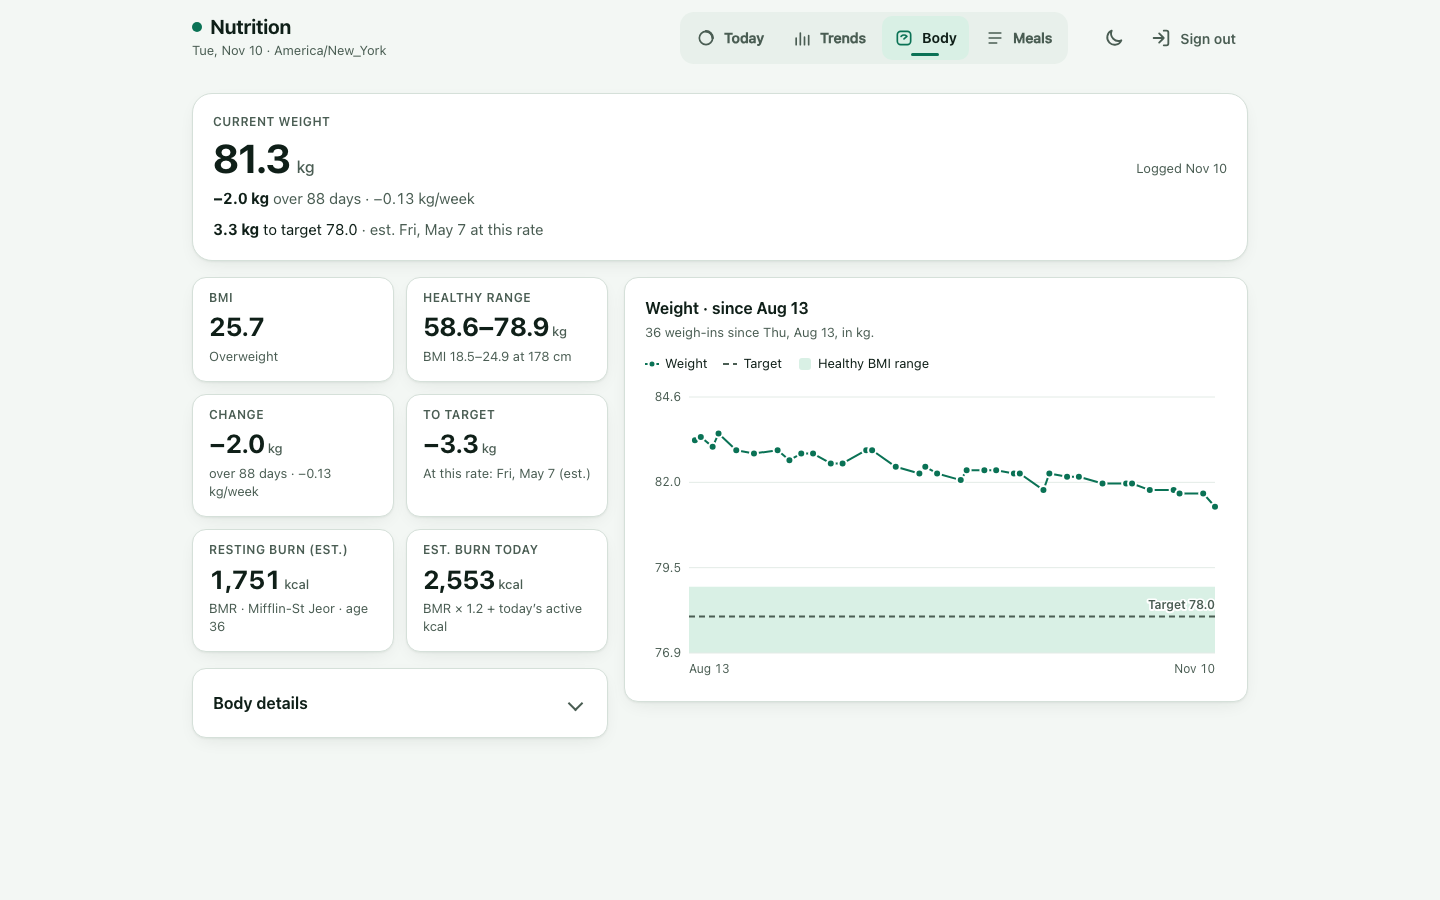
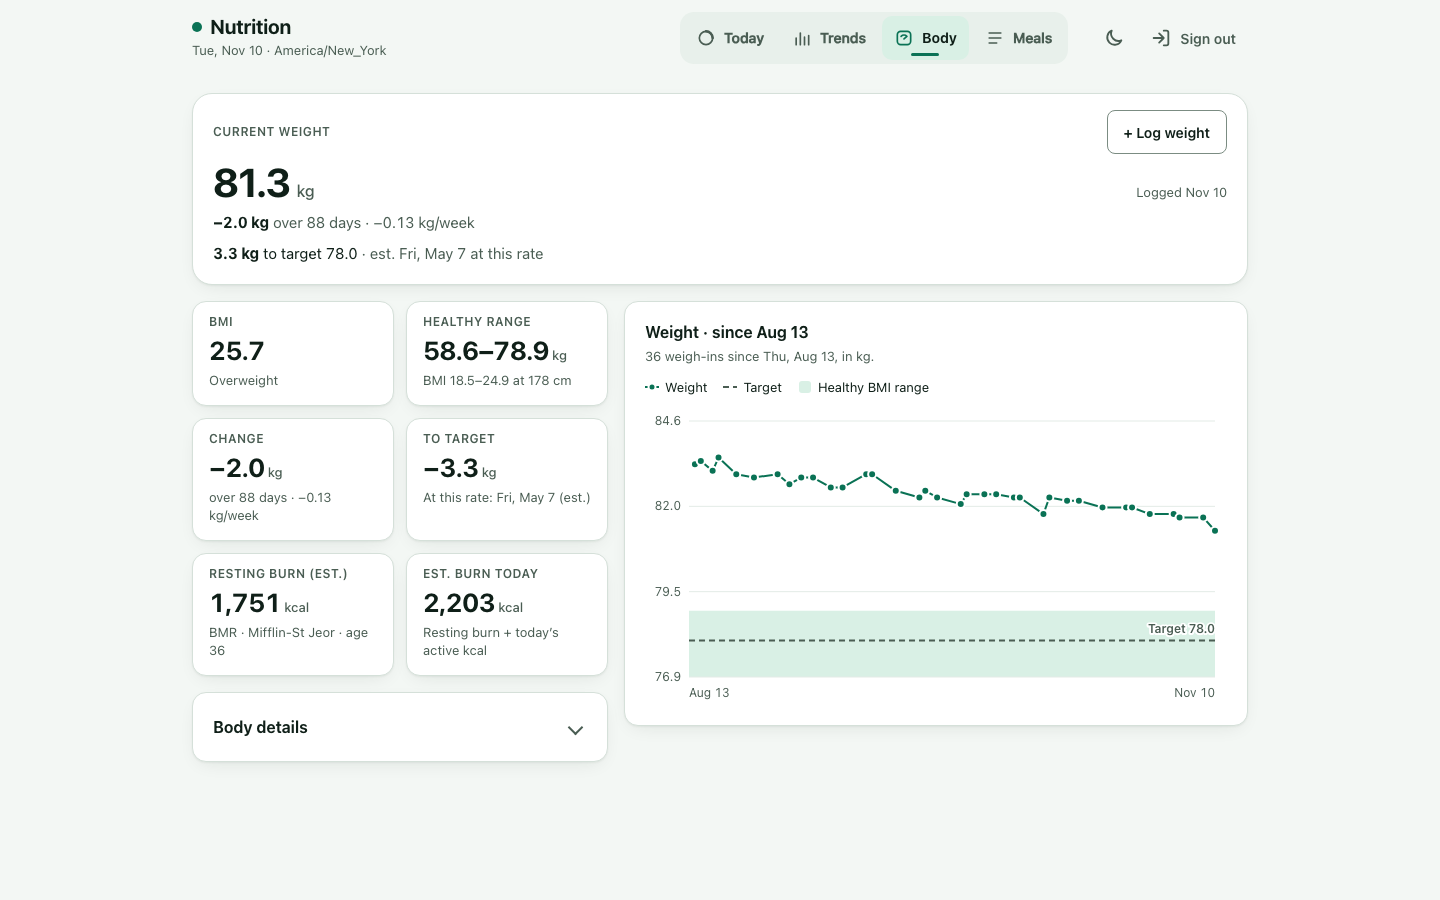
Dashboard: round-1 E2E checks, refreshed screenshots, log
E2E gains a round-1 block (7-day pair, burn legend, marks and tooltip,
Log weight, meal edit with changed-fields-only payloads, axe with the
editor open) and scrolls the chart into view before the touch tap:
173 checks, green twice. Screenshots refreshed, plus the meal editor
at 390 and 1440. The implementation log records round 1.

diff --git a/scripts/dashboard-e2e.ts b/scripts/dashboard-e2e.ts
@@ -320,6 +320,10 @@ console.log("touch");
     await login(page);
     await settled(page);
     await page.click("#tab-trends");
+    // A tap can only land on what is on screen; the chart may sit below
+    // the fold at 844px. Let the scroll settle (scroll dismisses tips).
+    await page.locator("#cal-plot svg").scrollIntoViewIfNeeded();
+    await page.waitForTimeout(200);
     const box = await page.locator("#cal-plot svg").boundingBox();
     await page.touchscreen.tap(
         box.x + box.width * 0.6,
@@ -425,6 +429,144 @@ console.log("deep link + body form");
         problems.length === 0,
         `console/network clean: ${problems.join(" | ") || "none"}`,
     );
+    await ctx.close();
+}
+
+// ---------- feedback round 1: burn split, 7-day pair, writes ----------
+// Chrome logs every 4xx response as a console error; the deliberate bad
+// submissions below produce exactly those, so only those are excused.
+const unexpected = (problems: string[]) =>
+    problems.filter((p) => !/status of 400 \(Bad Request\)/.test(p));
+for (const width of [390, 1440]) {
+    console.log(`round 1 · ${width}px`);
+    const { ctx, page, problems } = await open({ width });
+    await login(page);
+    await settled(page);
+
+    // Today: the two fixed 7-day figures.
+    const pair = await page.evaluate(
+        () =>
+            document.querySelector("#today-body .trio.two")?.textContent || "",
+    );
+    check(
+        /Scale/.test(pair) && /Net est\. change/.test(pair) && /g/.test(pair),
+        "Today shows the 7-day scale + net estimate pair",
+    );
+
+    // Trends: resting + workout in legend and tooltip.
+    await page.click("#tab-trends");
+    await settled(page);
+    const legendText = await page.textContent("#panel-trends .legend");
+    check(
+        /Resting burn \(changes with weight\)/.test(legendText) &&
+            /Workout \/ active/.test(legendText),
+        "Calories legend names resting burn and workout / active",
+    );
+    check(
+        (await page.locator("#cal-plot .m-rest").count()) === 1 &&
+            (await page.locator("#cal-plot .m-active").count()) > 0,
+        "Calories chart draws the resting line and active segments",
+    );
+    await page.focus("#cal-plot svg");
+    await page.keyboard.press("Home");
+    let tipText = "";
+    for (let i = 0; i < 30 && !/Active/.test(tipText); i++) {
+        tipText = (await page.textContent("#live")) || "";
+        if (!/Active/.test(tipText)) await page.keyboard.press("ArrowRight");
+    }
+    check(
+        /Resting/.test(tipText) &&
+            /Active/.test(tipText) &&
+            /Est\. burn total/.test(tipText),
+        "tooltip lists Resting, Active and Est. burn total",
+    );
+    await page.keyboard.press("Escape");
+
+    // Body: log a weigh-in — inline error, then a real save.
+    await page.click("#tab-body");
+    await settled(page);
+    await page.click("#lw-open");
+    await page.fill("#lw-weight", "3");
+    await page.click("#lw-save");
+    await page.waitForFunction(() =>
+        /outside/.test(document.querySelector("#lw-status")?.textContent || ""),
+    );
+    check(true, "Log weight: an implausible weight is refused inline");
+    await page.fill("#lw-weight", "80.4");
+    await page.fill("#lw-note", "e2e");
+    const wReq = page.waitForRequest((r: any) =>
+        r.url().endsWith("/api/dashboard/weight"),
+    );
+    await page.click("#lw-save");
+    const wBody = JSON.parse((await wReq).postData());
+    check(
+        wBody.weight === 80.4 &&
+            wBody.unit === "kg" &&
+            /^\d{4}-\d\d-\d\dT\d\d:\d\d$/.test(wBody.logged_at) &&
+            wBody.notes === "e2e",
+        `Log weight payload ${JSON.stringify(wBody)}`,
+    );
+    await page.waitForSelector(".lw-flash");
+    await settled(page);
+    check(
+        (await page.textContent(".w-now b"))!.trim() === "80.4",
+        "the new weigh-in becomes the current weight",
+    );
+
+    // Meals: edit one — bounds error, then only the changed fields.
+    await page.click("#tab-meals");
+    await settled(page);
+    await page.locator("#meals-body .btn-edit").first().click();
+    await page.fill("#me-calories", "25000");
+    await page.click("#me-save");
+    await page.waitForFunction(() =>
+        /must be/.test(document.querySelector("#me-status")?.textContent || ""),
+    );
+    check(true, "Edit meal: update_meal's bound is enforced inline");
+    await page.fill("#me-calories", "432");
+    const mReq = page.waitForRequest((r: any) => r.method() === "PATCH");
+    await page.click("#me-save");
+    const mBody = JSON.parse((await mReq).postData());
+    check(
+        JSON.stringify(mBody) === '{"calories":432}',
+        `Edit meal sends only the change: ${JSON.stringify(mBody)}`,
+    );
+    await page.waitForSelector(".meal-flash");
+    await settled(page);
+    check(
+        await page.evaluate(() =>
+            [...document.querySelectorAll("#meals-body td.k")].some(
+                (e) => e.textContent!.trim() === "432",
+            ),
+        ),
+        "the edited meal shows its new kcal",
+    );
+    check(
+        (await page.evaluate(
+            () => document.documentElement.scrollWidth - innerWidth,
+        )) <= 0,
+        "no horizontal scroll with the editor used",
+    );
+    if (SHOTS) {
+        await page.locator("#meals-body .btn-edit").first().click();
+        await page.waitForSelector("#me-form");
+        await page.screenshot({
+            path: `${SHOTS}/meals-edit-${width}-light.png`,
+            fullPage: false,
+        });
+        await page.click("#me-cancel");
+    }
+    await axe(page, `meals with editor ${width}`);
+    const bad = unexpected(problems);
+    check(
+        bad.length === 0,
+        `console/network clean: ${bad.join(" | ") || "none"}`,
+    );
+    await ctx.close();
+}
+// Reset the preview's in-memory writes.
+{
+    const { ctx } = await open({ width: 390, query: "?scenario=full" });
     await ctx.close();
 }
 

diff --git a/docs/redesign/IMPLEMENTATION_LOG.md b/docs/redesign/IMPLEMENTATION_LOG.md
@@ -203,12 +203,118 @@ Stage 2 of the redesign, built on branch `worktree-dashboard-daily-goal` against
 
 ## Known issues / notes
 
-- The `full` fixture's weigh-ins trend −0.15 kg/week as §5.2 specifies, but its
-  eating runs about 600 kcal under the estimated burn. Its Estimate vs reality
-  card therefore says the burn estimate looks about 420 kcal/day high. This is a
-  fixture artefact; `calibrate` is the scenario tuned to show the card's intended
-  reading (about 150 kcal/day high).
+- (Superseded by round 1's burn model.) Under BMR × 1.2 the `full` fixture's
+  Estimate vs reality card read about 420 kcal/day high. With resting + active
+  it now reads about 70 high; `calibrate` still lands at ~150 (tested).
 - At 1 year on 390px, bars are about 1px wide with no gap, and burn markers merge
   into a line. This is acceptable per §4.7; the tooltip and keyboard give
   per-day values.
 - Lighthouse accessibility ≥ 95 is not verified. axe is clean.
+
+## Round 1: user feedback (2026-11-10, REQUIREMENTS §0b)
+
+### What changed, per item
+
+1. **Burn model.**
+    - `src/body.ts`: `SEDENTARY_FACTOR` (1.2) is now `BASE_FACTOR` (1.0), so
+      burn = resting BMR + active kcal. The header comment gives the reasoning
+      (remote work, < 1,000 steps on rest days, matches Garmin's resting +
+      active split) and points to the Estimate vs reality card as the
+      calibration check.
+    - Tests moved to the new figures: 1768 + 300 = 2068, −9 g for 2000 eaten;
+      today's burn 1968.
+    - `calibrate` needed no retune: it derives its eating from `dailyBurn`, so
+      it still lands in its band.
+    - Page texts that said "× 1.2" / "desk day" now name the model. Today's
+      Est. burn foot shows the split ("1,751 resting + 452 active").
+    - `set_body_profile`'s description never said 1.2, but it now names the
+      model. `src/copy` has no burn "1.2"; the hits there are water amounts in
+      widget mock-ups.
+2. **Burn as resting + workout.**
+    - `daily[].bmr_kcal` is added, built in `buildDashboardDays`. It moves
+      with weight via `weightOn`.
+    - The Calories chart draws the resting burn as a dashed `--burn` line, the
+      active kcal as a `--burn` segment (with a surface halo) up to the total
+      ring, and keeps the total ring.
+    - Legend: "Resting burn (changes with weight)", "Workout / active",
+      "Est. burn (total)". Tooltip: Resting, Active, Est. burn total.
+    - Rings are sized by actual column width, so they shrink on a phone.
+    - Above 90 days the segments are dropped (bars are ~1px at 390px) and only
+      the resting line and total rings remain. The chart note says so, and
+      the tooltip still has the split. Checked legible at 390 and 1440.
+3. **Today's 7-day pair.**
+    - A pure `buildLast7` in `src/dashboard-stats.ts` (4 unit tests, plus a
+      range-independence test in `mcp.test.ts`) feeds the additive `last7`.
+    - Scale = last − first weigh-in in [today − 7, today], via
+      `buildEstimateVsScale`'s span logic, so it needs 2 weigh-ins on
+      different dates.
+    - Net est. = sum of `balance_g` over the complete logged days in
+      [today − 7, today − 1], the Trends tile's definition over a fixed week.
+    - `dashboardWindow` gains `fetchStart` (the range widened to today − 7).
+      Meals, water and activity are fetched from it, so `last7` never depends
+      on the range. `daily` and `meals` are cut back to the range, so those
+      payload fields are unchanged.
+    - It renders at the top of Today's "Last 7 days" card: signed grams,
+      amber/blue with sign, empty states, and a "Log weight" link.
+4. **Log weight.**
+    - `POST /api/dashboard/weight` runs the pure `checkWeightEntry`, then
+      `logWeightFromDashboard`.
+    - Validation reuses `toGrams`, `isPlausibleWeightGrams` and
+      `resolveWriteLoggedAt` in the profile timezone (no past bound, 5-minute
+      future). The unit falls back to the saved preference, and an omitted
+      time means now. Saved with `insertWeight`, whose idempotency is
+      unchanged.
+    - Body's "+ Log weight" opens an inline form (weight, kg/lb, date + time
+      defaulting to now in the profile timezone, note) with errors inline and
+      a confirmation after the refetch. Today's Scale cell links to it.
+5. **Edit a meal.**
+    - `PATCH /api/dashboard/meals/:id` runs the pure `checkMealPatch`, then
+      `updateMealFromDashboard`, persisted with `updateMeal`. That function
+      filters both its lookup and its UPDATE by `user_id`, which I verified.
+    - It returns 404 for another user's meal ("meal not found") and for a
+      non-uuid id, which would otherwise be a 500 on the uuid cast.
+    - Bounds reuse `MAX_CALORIES` and `MAX_MACRO_G` from `src/import.ts`.
+      Unknown keys are refused, and the page sends only changed fields, so
+      alcohol, caffeine and notes are never touched.
+    - Meals rows and cards get an Edit button that opens an inline edit row:
+      description, type, eaten-at time in the profile timezone, kcal, P, C, F,
+      fiber, sugar.
+    - **Delete was skipped:** there is no delete endpoint, and a proper
+      non-`confirm()` flow plus tests is not a cheap add.
+    - The preview supports both writes in memory, through the same validators.
+      Fixture meals now have uuid-shaped ids so they are editable there.
+
+### Decisions worth checking
+
+- **A cleared number in the meal editor is refused** ("can't be cleared —
+  enter 0 if there was none"). `updateMeal` stores calories through
+  `toStoredInteger`, where `null` rounds to a silent 0. `update_meal` can't
+  clear a number either.
+- **The 7-day window is calendar-fixed**, today − 7 … today. It is not "the
+  last 7 logged days, however far back".
+
+### Bug log (round 1)
+
+1. The meal editor's textarea rendered in the browser's monospace font. → The
+   base `font: inherit` rule listed button, input and select, not textarea. →
+   Added textarea. → 390 and 1440 screenshots.
+2. E2E only: "tap pins the tooltip" failed. → The longer Trends note and legend
+   pushed the chart below the 844px fold, so the tap landed off-screen
+   (`elementFromPoint` returned nothing). → The test scrolls the chart into
+   view before tapping. → E2E green.
+3. Prevented before shipping: a blanked calories field would have been stored
+   as 0 (see "Decisions worth checking").
+
+### Verification (round 1)
+
+- `bun test`: 939 pass, 0 fail. Typecheck and `format:check` are clean.
+- E2E: **173 checks, all passed, on two consecutive runs**. The new block
+  covers the 7-day pair, the burn legend, marks and tooltip, the Log weight
+  inline error and payload, the meal edit inline error and changed-fields-only
+  payload, and axe with the editor open. Console errors are excused only for
+  the deliberate 400s.
+- Screenshots refreshed (Today, Trends, Body, Meals, empty Today; both widths
+  and themes). New: `meals-edit-390-light.png` and `meals-edit-1440-light.png`.
+  The login screenshots were unchanged.
+- Not re-run this round: Claude in Chrome. The visual checks were Playwright
+  screenshots, each one viewed.
